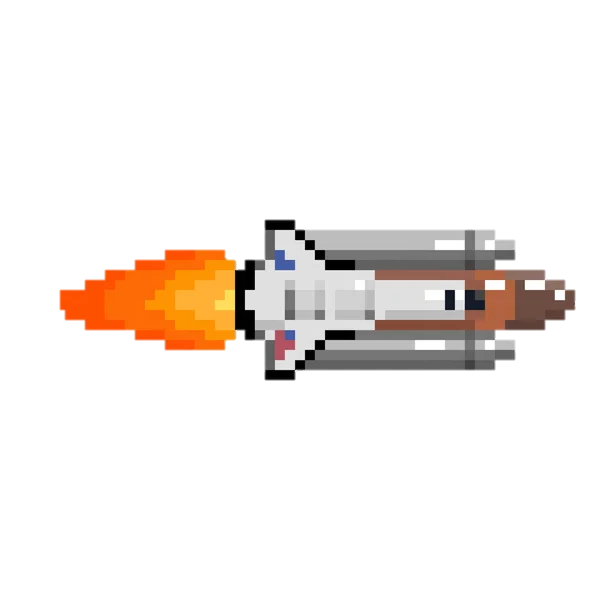
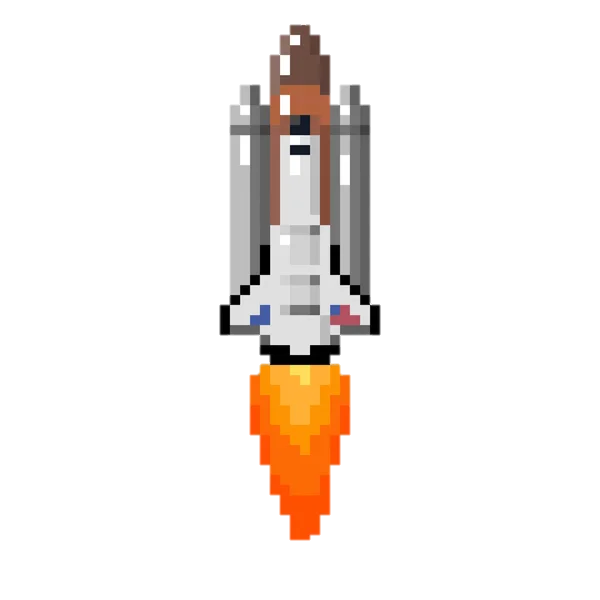
bottom img changes

Changed region(s): [[0.09, 0.03, 0.96, 0.9]]

diff --git a/styles.css b/styles.css
@@ -116,7 +116,7 @@ body {
 }
 .busqueda {
   font-family: Courier;
-  background-color: rgb(252, 0, 0);
+  background-color: rgb(252, 126, 0);
   color: rgb(109, 3, 3);
   font-size: 20px;
   font-weight: bold;
@@ -126,7 +126,7 @@ body {
   transition: background-color 1s;
 }
 .busqueda:hover {
-  background-color: rgb(163, 0, 0);
+  background-color: rgb(163, 81, 0);
 }
 
 /* IMG de Planeta */
@@ -147,6 +147,7 @@ body {
 .pla {
   width: inherit;
   z-index: 5;
+  object-fit: cover;
 }
 
 /*IMG TELESCOPIO*/
@@ -191,10 +192,10 @@ body {
 
 @keyframes mov {
   from {
-    margin-right: -100px;
+    margin-bottom: -600px;
   }
   to {
-    margin-right: 100px;
+    margin-bottom: 0px;
   }
 }
 
@@ -525,10 +526,10 @@ td {
   }
   @keyframes mov {
     from {
-      margin-right: -100px;
+      margin-bottom: -350px;
     }
     to {
-      margin-right: 50px;
+      margin-right: 0px;
     }
   }
   .as1 {
@@ -546,5 +547,34 @@ td {
   .planeta {
     height: 240px;
     object-fit: cover;
+  }
+  .container {
+    width: 300px;
+  }
+  .telescop,
+  .telescopD,
+  .telescopI {
+    height: 80px;
+    width: 80px;
+  }
+  .telescop {
+    bottom: -40px;
+    right: 38%;
+  }
+  .telescopD {
+    bottom: -330px;
+    right: 15%;
+  }
+  .telescopI {
+    right: 60%;
+    bottom: -200px;
+  }
+  .telescopD {
+    bottom: -200px;
+    right: 10%;
+  }
+  .telescopI {
+    right: 65%;
+    bottom: -120px;
   }
 }
